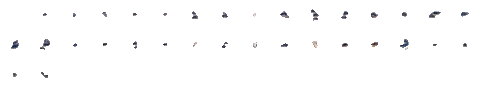
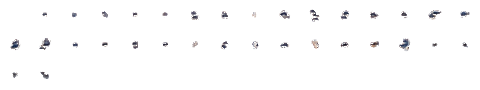
Traffic: difference-matte sprites, photo-specific density, dev debug overlay (key D), unit tests for lanes, headway and spawn rules

diff --git a/tests/unit/traffic.test.js b/tests/unit/traffic.test.js
@@ -1,0 +1,88 @@
+import test from 'node:test';
+import assert from 'node:assert/strict';
+import fs from 'node:fs';
+import sharp from 'sharp';
+import { Traffic } from '../../src/life/traffic.js';
+import { rng } from '../../src/engine/clock.js';
+import { seasonWeights } from '../../src/engine/blend.js';
+import { State } from '../../src/engine/state.js';
+
+const DIR = 'public/scenes/ndk/', data = JSON.parse(fs.readFileSync(DIR + 'traffic.json', 'utf8'));
+const road = await sharp(DIR + 'road.png').raw().toBuffer({ resolveWithObject: true }), RW = road.info.width, RC = road.info.channels;
+const maskA = await sharp(DIR + 'masks-a.png').raw().toBuffer({ resolveWithObject: true });
+const onRoad = (x, y, ch) => road.data[(Math.round(y) * RW + Math.round(x)) * RC + ch] > 127;
+const CAR_W = 1.9;
+
+test('lanes: every visible point lies on the strict asphalt mask with half a car width of margin on both sides', () => {
+  assert.ok(data.lanes.length >= 4);
+  for (const lane of data.lanes) {
+    const ch = lane.set === 'autumn' ? 1 : 0; let visible = 0;
+    for (let i = 0; i < lane.pts.length; i++) {
+      const [x, y, ppm, vis] = lane.pts[i]; if (!vis) continue; visible++;
+      const a = lane.pts[Math.max(0, i - 2)], b = lane.pts[Math.min(lane.pts.length - 1, i + 2)], tx = b[0] - a[0], ty = b[1] - a[1], tl = Math.hypot(tx, ty) || 1, half = 0.5 * CAR_W * ppm * 0.85;
+      assert.ok(onRoad(x, y, ch), `${lane.id} (${lane.set}) @${i} m centre off the asphalt`);
+      // sideways = across the lane; at this low camera angle that is very nearly the image x axis
+      assert.ok(onRoad(x - half, y, ch) && onRoad(x + half, y, ch), `${lane.id} (${lane.set}) @${i} m has less than half a car of asphalt beside it`);
+      const m = (Math.round(y) * RW + Math.round(x)) * maskA.info.channels;
+      assert.ok(maskA.data[m] < 13 && maskA.data[m + 1] < 13 && maskA.data[m + 2] < 90, `${lane.id} @${i} m touches sky, mountain or vegetation`);
+      assert.ok(!(x > 380 && x < 1330 && y > 470), `${lane.id} @${i} m is on the plaza`);
+      void tx; void ty; void tl;
+    }
+    assert.ok(visible >= 40, `${lane.id}: only ${visible} m visible`);
+  }
+});
+
+test('lanes: hidden stretches exist only at a declared hide/far end, or are short passes behind an occluder', () => {
+  for (const lane of data.lanes) {
+    let run = 0, start = 0;
+    for (let i = 0; i <= lane.pts.length; i++) {
+      const p = lane.pts[i];
+      if (p && !p[3]) { if (!run) start = i; run++; continue; }
+      if (run) { const atStart = start === 0, atEnd = !p; if (!atStart && !atEnd) assert.ok(run <= 14, `${lane.id}: ${run} m hidden in mid-lane at ${start} m`); if (atStart && lane.start === 'far') assert.ok(run <= 25); if (atEnd && lane.end === 'far') assert.ok(run <= 25); run = 0; }
+    }
+    if (lane.start === 'hide') assert.equal(lane.pts[0][3], 0, `${lane.id}: a 'hide' start must be hidden`);
+    if (lane.end === 'hide') assert.equal(lane.pts[lane.pts.length - 1][3], 0, `${lane.id}: a 'hide' end must be hidden`);
+  }
+});
+
+test('lanes are in metres on the ground: near cars cover more pixels per metre than far ones', () => {
+  const l = data.lanes.find(x => x.id === 'left-in-0' && x.set === 'base'), a = l.pts[20], b = l.pts[21], c = l.pts[l.pts.length - 60], d = l.pts[l.pts.length - 59];
+  assert.ok(Math.hypot(d[0] - c[0], d[1] - c[1]) > 1.5 * Math.hypot(b[0] - a[0], b[1] - a[1]), 'a metre near the camera is longer in pixels than a metre far away');
+  assert.ok(c[2] > a[2], 'scale grows toward the camera');
+});
+
+function sim(env, hour, doy, steps = 6000) {
+  const scene = { traffic: data, cpu: { road: { w: RW, h: road.info.height, data: new Uint8Array(0) } }, size: [1672, 941] };
+  const T = new Traffic(scene, rng(7)), season = seasonWeights(doy);
+  const ctx = { env: { rain: 0, fog: 0, snow: 0, storm: 0, wet: 0, ...env }, season, blend: { cover: season.winter, lightsOn: 0, sunVis: 1, relight: 0 }, activity: State.activityAt(hour) };
+  let minGap = 1e9, maxCars = 0;
+  for (let i = 0; i < steps; i++) {
+    T.update(1 / 30, ctx);
+    for (const lane of T.lanes) for (let k = 1; k < lane.cars.length; k++) { const lead = lane.cars[k - 1], c = lane.cars[k]; minGap = Math.min(minGap, lead.s - lead.len - c.s); assert.ok(c.s < lead.s, 'order along the lane never changes (no lane jumps, no passing through)'); }
+    maxCars = Math.max(maxCars, T.count);
+  }
+  return { T, minGap, maxCars };
+}
+
+test('headway: cars never overlap and keep a gap, also in a queue at the signal', () => {
+  const { minGap, T } = sim({}, 17.8, 196);
+  assert.ok(minGap >= 0.5, 'smallest bumper-to-bumper gap ' + minGap.toFixed(2) + ' m');
+  assert.ok(T.lanes.some(l => l.signalM != null), 'the inbound carriageway has a signal');
+});
+
+test('spawn rules: cars only appear at the start of a lane and only leave at its end; never in mid-road', () => {
+  const { T } = sim({}, 13, 196);
+  assert.ok(T.events.spawn > 20 && T.events.despawn > 20);
+  assert.equal(T.events.midRoad, 0, JSON.stringify(T.events.log.slice(0, 3)));
+  for (const lane of T.lanes) { assert.ok(['far', 'hide', 'edge'].includes(lane.start) && ['far', 'hide', 'edge'].includes(lane.end)); }
+});
+
+test('density follows the hour and the weather; the autumn photo uses its own (narrower) lane set', () => {
+  const noon = sim({}, 13, 196).maxCars, night = sim({}, 3, 196, 9000).T.count, snow = sim({ snow: 0.85 }, 13, 18, 9000).T.count;
+  const baked = Object.values(data.stats.master.byCarriageway).reduce((s, c) => s + c.baked, 0);
+  assert.ok(noon <= baked * 1.05 && noon >= baked * 0.5, `noon ${noon} cars vs ${baked} in the photograph`);
+  assert.ok(night < noon * 0.35, `night ${night} vs noon ${noon}`);
+  assert.ok(snow <= 4, `heavy snow leaves almost no traffic (${snow})`);
+  const autumn = sim({}, 13, 293).T;
+  assert.equal(autumn.setName, 'autumn'); assert.ok(autumn.lanes.every(l => l.cw !== 'left-out'), 'no live lane on the carriageway the autumn photo redrew');
+});

diff --git a/src/life/traffic.js b/src/life/traffic.js
@@ -10,17 +10,18 @@ const NOON = State.activityAt(13);                   // the photograph was taken
 // multiplicative tints for light-coloured sprites (white/silver base) and for dark ones: the realistic palette of a city street
 const TINT_LIGHT = [[1, 1, 1], [1, 1, 1], [0.86, 0.87, 0.89], [0.7, 0.71, 0.74], [0.52, 0.53, 0.56], [0.3, 0.31, 0.34], [0.26, 0.3, 0.42], [0.5, 0.2, 0.19], [0.93, 0.9, 0.84]];
 // dark sprites carry the blue of their own shadow: brightening is biased warm so a lighter car comes out grey or silver, not sky-blue
-const TINT_DARK = [[1, 1, 1], [1, 1, 1], [1, 1, 1], [1.45, 1.4, 1.3], [1.9, 1.8, 1.62], [2.2, 2.08, 1.85], [1.05, 1.12, 1.35], [1.7, 1.0, 0.92]];
+const TINT_DARK = [[1, 1, 1], [1, 1, 1], [1, 1, 1], [1.45, 1.4, 1.3], [1.9, 1.8, 1.62], [2.2, 2.08, 1.85], [1.05, 1.12, 1.35], [1.25, 0.98, 0.92]];
 const HEAD = [1.0, 0.94, 0.80], TAIL = [1.0, 0.13, 0.08];
 
 export class Traffic {
   constructor(scene, rnd) {
     this.rnd = rnd; this.data = scene.traffic; this.cpuRoad = scene.cpu.road; this.size = scene.size;
     this.sets = { base: [], autumn: [] };
-    for (const l of this.data.lanes) this.sets[l.set].push({ ...l, cars: [], nextSpawn: 0, phase: rnd() * 60, maxPpm: l.pts.reduce((m, p) => p[3] ? Math.max(m, p[2]) : m, 0) });
+    const phase = {};   // one signal per carriageway: all its lanes share the phase
+    for (const l of this.data.lanes) this.sets[l.set].push({ ...l, cars: [], nextSpawn: 0, phase: phase[l.cw] ??= rnd() * 60, maxPpm: l.pts.reduce((m, p) => p[3] ? Math.max(m, p[2]) : m, 0) });
     this.sprites = this.data.sprites; this.cell = this.data.cell;
     this.setName = null; this.lib = null; this.events = { spawn: 0, despawn: 0, midRoad: 0, log: [] }; this.time = 0;
-    this.baked = Object.fromEntries(this.data.carriageways.map(c => [c.id, c.bakedCars]));
+    this.bakedOf = lib => { const st = this.data.stats[lib] || this.data.stats.master; return cw => (st.byCarriageway[cw] || { baked: 0 }).baked; };
     this.lanesBase = Object.fromEntries(this.data.carriageways.map(c => [c.id, c.sets.base ? c.sets.base.lanes : 1]));
   }
   get lanes() { return this.sets[this.setName] || []; }
@@ -48,7 +49,7 @@ export class Traffic {
   /** How many cars a lane should carry right now. */
   target(lane, ctx) {
     const e = ctx.env, weather = (1 - 0.3 * e.rain) * (1 - 0.35 * e.fog) * (1 - 0.92 * clamp(e.snow * 1.15)) * (1 - 0.3 * e.storm);
-    return 0.8 * (this.baked[lane.cw] || 0) / (this.lanesBase[lane.cw] || 1) * (ctx.activity / NOON) * weather;
+    return 0.8 * Math.max(4, this.bakedOf(this.lib)(lane.cw)) / (this.lanesBase[lane.cw] || 1) * (ctx.activity / NOON) * weather;
   }
   /** Start (or restart after a season change) with cars already on the road, as in the photograph. */
   populate(ctx) {
@@ -123,11 +124,11 @@ export class Traffic {
     layer.flush(this.setName === 'autumn');
     if (night > 0.03) for (const it of list) {
       const head = it.lane.seen === 'head', col = head ? HEAD : TAIL, wCar = CAR_W * it.ppm, fg = groundFog(e, it.y), inten = night * it.a * (1 - fg * 0.6);
-      const depth = clamp((it.y - 318) / 623 / 1.25 + 0.012, 0, 1), r = (head ? 0.9 + 0.62 * wCar : 0.8 + 0.45 * wCar) * (1 + e.fog * 1.2 + e.rain * 0.3), ly = it.y - wCar * 0.2;
+      const depth = clamp((it.y - 318) / 623 / 1.25 + 0.012, 0, 1), r = (head ? 0.8 + 0.42 * wCar : 0.7 + 0.32 * wCar) * (1 + e.fog * 1.2 + e.rain * 0.3), ly = it.y - wCar * 0.2;
       if (wCar > 4.2) { // near enough to resolve the pair of lamps
-        sp.add(it.x - wCar * 0.3, ly, r, r, 0, 11, -depth, 0, col[0], col[1], col[2], -inten * (head ? 1.0 : 0.9));
-        sp.add(it.x + wCar * 0.3, ly, r, r, 0, 11, -depth, 0, col[0], col[1], col[2], -inten * (head ? 1.0 : 0.9));
-      } else sp.add(it.x, ly, r * 1.15, r * 1.15, 0, 11, -depth, 0, col[0], col[1], col[2], -inten * (head ? 1.15 : 1.0));
+        sp.add(it.x - wCar * 0.3, ly, r, r, 0, 11, -depth, 0, col[0], col[1], col[2], -inten * (head ? 0.8 : 0.7));
+        sp.add(it.x + wCar * 0.3, ly, r, r, 0, 11, -depth, 0, col[0], col[1], col[2], -inten * (head ? 0.8 : 0.7));
+      } else sp.add(it.x, ly, r * 1.15, r * 1.15, 0, 11, -depth, 0, col[0], col[1], col[2], -inten * (head ? 0.95 : 0.8));
       // light on the asphalt in front of / behind the car (toward the camera for oncoming cars), longer and brighter when wet
       const spill = (head ? 0.16 : 0.07) + e.wet * (head ? 0.4 : 0.32);
       sp.add(it.x, it.y + wCar * (0.25 + 0.5 * e.wet), wCar * 0.55, wCar * (0.5 + 0.9 * e.wet), 0, 12, -depth, 0, col[0], col[1], col[2], -inten * spill);

diff --git a/src/ui/debug-overlay.js b/src/ui/debug-overlay.js
@@ -1,0 +1,41 @@
+// Development only (never in the production bundle): key D shows what the traffic system believes about the road —
+// the strict asphalt mask, the lanes with direction arrows, hide segments, spawn and despawn points, the signal and the live cars.
+export function install({ scene, comp, life, clock }) {
+  const cv = document.createElement('canvas');
+  Object.assign(cv.style, { position: 'fixed', inset: 0, width: '100vw', height: '100vh', pointerEvents: 'none', zIndex: 30, display: 'none' });
+  document.body.append(cv); const g = cv.getContext('2d'); let on = false, maskCanvas = null, maskSet = '';
+  const [W, H] = scene.size;
+  const toScreen = (x, y) => { const v = comp.view, u = 0.5 + (x / W - 0.5) * v.zoom, w = 0.5 + (y / H - 0.5) * v.zoom; return [(u - v.cov[0]) / v.cov[2] * cv.width, (w - v.cov[1]) / v.cov[3] * cv.height]; };
+  function mask(set) {
+    if (maskCanvas && maskSet === set) return maskCanvas;
+    const m = scene.cpu.road, c = document.createElement('canvas'); c.width = m.w; c.height = m.h; const x = c.getContext('2d'), id = x.createImageData(m.w, m.h), ch = set === 'autumn' ? 1 : 0;
+    for (let i = 0; i < m.w * m.h; i++) if (m.data[i * 4 + ch]) { id.data[i * 4] = 40; id.data[i * 4 + 1] = 255; id.data[i * 4 + 2] = 120; id.data[i * 4 + 3] = 110; }
+    x.putImageData(id, 0, 0); maskCanvas = c; maskSet = set; return c;
+  }
+  function draw() {
+    if (!on) return;
+    cv.width = innerWidth * devicePixelRatio; cv.height = innerHeight * devicePixelRatio; g.clearRect(0, 0, cv.width, cv.height);
+    const T = life.traffic; if (!T) return;
+    const [x0, y0] = toScreen(0, 0), [x1, y1] = toScreen(W, H); g.imageSmoothingEnabled = false; g.drawImage(mask(T.setName), x0, y0, x1 - x0, y1 - y0);
+    const k = (x1 - x0) / W;
+    for (const lane of T.lanes) {
+      for (const [vis, col, dash] of [[1, '#ffe14a', []], [0, '#ff4040', [4, 4]]]) {
+        g.beginPath(); g.strokeStyle = col; g.lineWidth = Math.max(1.5, k * 0.9); g.setLineDash(dash); let pen = false;
+        lane.pts.forEach(p => { if (!!p[3] === !!vis) { const [x, y] = toScreen(p[0], p[1]); pen ? g.lineTo(x, y) : g.moveTo(x, y); pen = true; } else pen = false; }); g.stroke();
+      }
+      g.setLineDash([]);
+      for (let i = 20; i < lane.pts.length - 4; i += 45) { const a = toScreen(lane.pts[i][0], lane.pts[i][1]), b = toScreen(lane.pts[i + 4][0], lane.pts[i + 4][1]), an = Math.atan2(b[1] - a[1], b[0] - a[0]); g.beginPath(); g.moveTo(b[0], b[1]); g.lineTo(b[0] - 9 * Math.cos(an - 0.5), b[1] - 9 * Math.sin(an - 0.5)); g.moveTo(b[0], b[1]); g.lineTo(b[0] - 9 * Math.cos(an + 0.5), b[1] - 9 * Math.sin(an + 0.5)); g.strokeStyle = '#ffe14a'; g.stroke(); }
+      const s = toScreen(lane.pts[0][0], lane.pts[0][1]), e = toScreen(lane.pts[lane.pts.length - 1][0], lane.pts[lane.pts.length - 1][1]);
+      g.fillStyle = '#3cff6a'; g.beginPath(); g.arc(s[0], s[1], 5, 0, 7); g.fill(); g.fillStyle = '#ff3c3c'; g.fillRect(e[0] - 4, e[1] - 4, 8, 8);
+      g.font = '11px system-ui'; g.fillStyle = '#fff'; g.fillText(`${lane.id} · spawn (${lane.start})`, s[0] + 8, s[1] + 4); g.fillText(`despawn (${lane.end})`, e[0] + 8, e[1] + 4);
+      if (lane.signalM != null) { const p = lane.pts[lane.signalM], q = toScreen(p[0], p[1]); g.fillStyle = T.red(lane) ? '#ff2a2a' : '#2aff5a'; g.fillRect(q[0] - 7, q[1] - 2, 14, 4); }
+      g.fillStyle = '#35e0ff'; for (const c of lane.cars) { const P = T.at(lane, c.s, {}); if (!P.vis) continue; const q = toScreen(P.x, P.y); g.fillRect(q[0] - 1.5, q[1] - 1.5, 3, 3); }
+    }
+    g.fillStyle = 'rgba(0,0,0,.6)'; g.fillRect(10, cv.height - 54, 520, 44); g.fillStyle = '#fff'; g.font = '13px system-ui';
+    g.fillText(`DEBUG (D): asphalt mask · lanes [${T.setName}] · cars ${T.count} · sprites from "${T.lib}"`, 18, cv.height - 36);
+    g.fillText('yellow = lane on visible asphalt, red dashed = hide segment, green dot = spawn, red square = despawn', 18, cv.height - 18);
+  }
+  addEventListener('keydown', e => { if ((e.key === 'd' || e.key === 'D' || e.key === 'д' || e.key === 'Д') && !e.ctrlKey && !e.metaKey && !(e.target instanceof HTMLInputElement && e.target.type !== 'range')) { on = !on; cv.style.display = on ? 'block' : 'none'; } });
+  clock.add(draw);
+  return { toggle(v) { on = v ?? !on; cv.style.display = on ? 'block' : 'none'; draw(); } };
+}

diff --git a/src/main.js b/src/main.js
@@ -113,6 +113,7 @@ async function boot() {
   let seen = true; try { seen = localStorage.getItem('btty.seen') === '1'; localStorage.setItem('btty.seen', '1'); } catch { /* private mode */ }
   if (!QA && params.get('ui') !== '0') { if (!seen || params.get('intro') === '1') { ui.showIntro(state.S.reducedMotion); if (!state.S.reducedMotion) demo.start(); } }
   window.__app = { state, comp, clock, scene, gl, life, sound, ui, demo, quality, actions, version };
+  if (import.meta.env.DEV) import('./ui/debug-overlay.js').then(d => { window.__app.debug = d.install({ scene, comp, life, clock }); }); // key D; stripped from production builds
 }
 boot().catch(err => {
   console.error(err);
